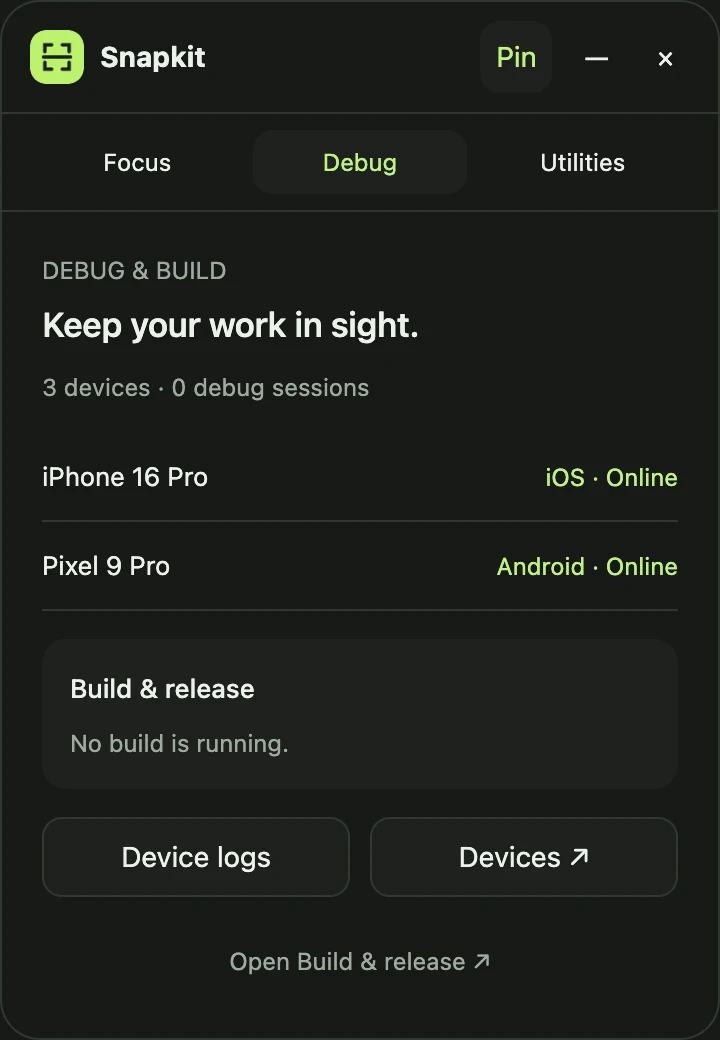
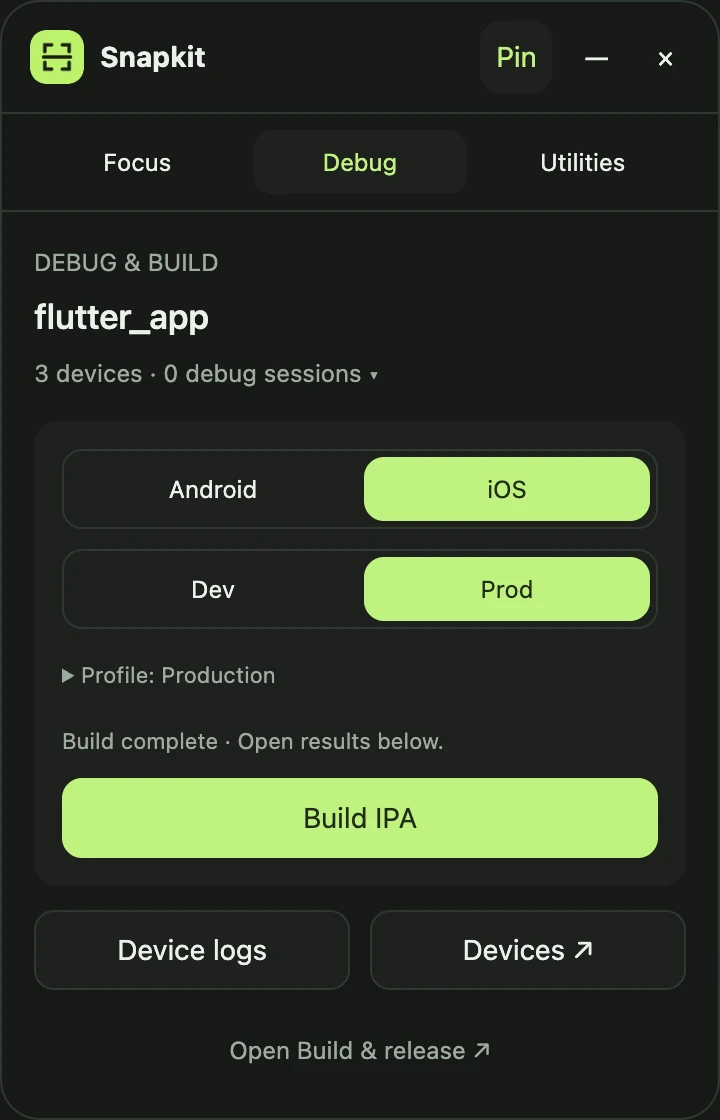
feat: build Android and iOS profiles from Mini widget

diff --git a/scripts/content/seo-guides.js b/scripts/content/seo-guides.js
@@ -57,7 +57,8 @@ export const guides = [
  ['Tạo mã QR không qua liên kết trung gian',['Mở QR Kit, nhập liên kết hoặc văn bản và bấm Tạo mã QR. Bạn có thể chọn mức phục hồi mã L, M, Q hoặc H; mức cao chịu lỗi tốt hơn nhưng chứa ít dữ liệu hơn.','Lưu ảnh QR dạng PNG rồi quét thử bằng điện thoại trước khi chia sẻ. QR chứa trực tiếp nội dung bạn nhập, không mã hoá và không tự gửi lên server. Thay nội dung sẽ xoá ảnh QR cũ để tránh lưu nhầm.']],
  ['Đổi ảnh đại diện',['Mở Hồ sơ của tôi → Tải ảnh lên để chọn PNG, JPG hoặc WebP tối đa 5 MB. Ảnh được cắt vuông ở giữa và thu nhỏ thành 256 × 256.','Hoặc mở Thư viện avatar, chọn bộ Robot/Chân dung và một ảnh, hay bấm Chọn ngẫu nhiên. Xem trước rồi Lưu hồ sơ; Đặt lại thay đổi bỏ bản nháp và Dùng chữ cái khôi phục avatar chữ cái. Avatar được giữ khi đăng nhập lại; demo chỉ thay đổi trong bản xem thử.']],
  ['Ổ trong máy và SSD gắn ngoài',['Vào Thiết lập & công cụ hoặc Snapkit Kit → Theo dõi máy để xem từng ổ đang kết nối. Mỗi thẻ ghi tên ổ, SSD/HDD khi hệ điều hành cung cấp, kết nối, dung lượng trống và tổng dung lượng. Nhãn chỉ rõ ổ hệ thống, dữ liệu Snapkit và dự án đang mở.','Dung lượng dùng GB thập phân. Trên macOS, số trống là phần hệ thống đang cho phép ghi; Cài đặt macOS có thể tính thêm phần có thể thu hồi. Các volume System/Data trong cùng nhóm APFS được gộp, không cộng dung lượng hai lần. Bấm Kiểm tra lại hoặc Cập nhật thông tin máy sau khi cắm/rút ổ.']],
- ['Widget nổi và menu bar',['Trong bản desktop, bấm Mở widget nổi trên Snapkit Kit hoặc Focus Kit. Chuyển Tập trung, Debug hoặc Tiện ích bằng thanh chế độ phía trên. Chế độ cuối được nhớ trên máy. Đổi chế độ không dừng đồng hồ. Kéo thanh Snapkit để di chuyển; Ghim giữ widget trên cùng, dấu trừ thu gọn và dấu × đóng riêng widget. Đồng hồ đồng bộ với Focus Kit kể cả khi cửa sổ chính bị ẩn.','Trong My day, bấm nút ghim cạnh task để đưa task thật và tiến độ tiêu chí lên widget. Mở task quay lại đúng công việc trong Teams. Tiến độ được kiểm tra lại khi widget mở và có kết nối; widget không tự đánh dấu tiêu chí thay bạn.','Trong Debug, xem thiết bị online, phiên Debug Sync và trạng thái build thật. Nếu công cụ build không cung cấp phần trăm, Snapkit hiển thị giai đoạn xử lý. Log thiết bị, Thiết bị và Build & release mở màn tương ứng trong ứng dụng. Trong Tiện ích, Copy dùng mục mới nhất trong lịch sử đã bật; Chụp ảnh và Tạo QR mở công cụ đầy đủ. Giữ máy thức dùng chung trạng thái với ứng dụng.',
+ ['Widget nổi và menu bar',['Trong bản desktop, bấm Mở widget nổi trên Snapkit Kit hoặc Focus Kit. Chuyển Tập trung, Debug hoặc Tiện ích bằng thanh chế độ phía trên. Chế độ cuối được nhớ trên máy. Đổi chế độ không dừng đồng hồ. Kéo thanh Snapkit để di chuyển; Ghim giữ widget trên cùng, dấu trừ thu gọn và dấu × đóng riêng widget. Đồng hồ đồng bộ với Focus Kit kể cả khi cửa sổ chính bị ẩn.','Trong My day, bấm nút ghim cạnh task để đưa task thật và tiến độ tiêu chí lên widget. Mở task quay lại đúng công việc trong Teams. Tiến độ được kiểm tra lại khi widget mở và có kết nối; widget không tự đánh dấu tiêu chí thay bạn.','Build trực tiếp trong Debug: chọn Android hoặc iOS, chọn Dev hoặc Prod, kiểm tra tên Profile rồi bấm Build APK/IPA. Dev/Prod là môi trường từ profile dự án, không phải chế độ debug của Flutter. Widget dùng đúng flavor, entrypoint và file defines của profile. Nếu chưa có profile rõ ràng hoặc có nhiều profile trùng môi trường, bấm dòng Profile để chọn. Lựa chọn được nhớ riêng theo dự án, nền tảng và môi trường. iOS cần macOS, Xcode và cấu hình signing; widget không tự upload lên TestFlight. Khi đang build, bạn có thể bấm Huỷ. Mở Build & release để xem artifact, log lỗi và cấu hình nâng cao.',
+ 'Trong Debug, xem thiết bị online, phiên Debug Sync và trạng thái build thật. Nếu công cụ build không cung cấp phần trăm, Snapkit hiển thị giai đoạn xử lý. Log thiết bị, Thiết bị và Build & release mở màn tương ứng trong ứng dụng. Trong Tiện ích, Copy dùng mục mới nhất trong lịch sử đã bật; Chụp ảnh và Tạo QR mở công cụ đầy đủ. Giữ máy thức dùng chung trạng thái với ứng dụng.',
  'Biểu tượng Snapkit nằm trên menu bar của macOS hoặc system tray của Windows. Đóng cửa sổ chính chỉ ẩn ứng dụng; mở lại từ biểu tượng hoặc Dock. Chọn Thoát Snapkit để dừng ứng dụng hoàn toàn. Giữ máy thức và clipboard theo phiên chỉ kết thúc khi tắt chức năng hoặc thoát hẳn.','Sau lần đăng nhập đầu tiên, desktop yêu cầu thông báo qua hệ điều hành. Trên web, bấm Cho phép thông báo trong lời nhắc. Không hỏi lại nếu bạn đã tắt hoặc chọn Để sau; có thể bật lại trong bảng thông báo.']],
  ['Những công cụ còn lại',['Image Kit đổi kích thước và định dạng PNG, JPEG, WebP. Text Kit xử lý JSON, Base64, URL và văn bản. File Check đối chiếu SHA-256 của tệp tải về. Focus Kit hẹn giờ tập trung; desktop có thông báo hệ điều hành nếu được cấp quyền.','Muốn mở cùng máy hoặc giữ máy thức, dùng Luôn sẵn khi bạn cần ở cuối trang. Khởi động cùng máy chỉ có trong bản cài đặt macOS/Windows; Giữ máy luôn thức kết thúc khi tắt chức năng hoặc thoát hẳn ứng dụng. Dữ liệu của các tiện ích này không được tự chia sẻ vào Teams.']]]},en:{title:'Snapkit everyday utility kit',description:'Use session clipboard history, batch rename, screen annotation, QR generation and local tools on macOS and Windows.',intro:'No development project required. Open Personal → Snapkit Kit → Everyday tools and choose what you need.',sections:[
  ['Open your everyday tools',['After signing in, choose Use everyday tools during onboarding or open Snapkit Kit in the Personal sidebar. These tools do not require a connected project, Flutter SDK or virtual device.','Use ⌘/Ctrl + K to search tools inside Snapkit. The global ⌘/Ctrl + Shift + Space shortcut brings up Snapkit and its command palette while the app is running, if the OS allows registration.']],
@@ -66,7 +67,8 @@ export const guides = [
  ['Capture, annotate and redact an image',['In Snap Capture, choose a desktop screen or open a PNG, JPEG or WebP image. macOS may require Screen Recording permission in System Settings and an app restart. Screen previews are captured at up to 1920 × 1080.','Choose Mark rectangle, Draw arrow or Cover private text, then drag on the image. Redaction writes an opaque black area into the exported PNG pixels. Check coverage before sharing.','Undo an annotation to correct it, then Save annotated image. The original is not overwritten. Discard image clears it from the tool. The browser demo annotates selected or sample images; it does not capture desktop screens.']],
  ['Generate a direct QR code',['Open QR Kit, enter a link or text and generate the code. Choose error correction L, M, Q or H; higher correction tolerates more damage but fits less data.','Save the PNG and test it with your phone before sharing. The code contains your original content without encryption or a tracking redirect. It is generated locally. Editing the content clears the old output to prevent saving a stale code.']],
  ['Internal and external storage',['Open Setup & tools or Snapkit Kit → Machine Watch to see connected storage. Each card identifies the volume, SSD/HDD when reported by the OS, connection, available and total space. Badges show the system disk, Snapkit data and active project.','Capacity uses decimal GB. macOS may include reclaimable space in its own storage estimates; Snapkit shows currently writable space. System/Data volumes in an APFS group are shown once. Refresh after connecting or disconnecting a drive.']],
- ['Floating widget and menu bar',['In the desktop app, choose Open floating widget in Snapkit Kit or Focus Kit. Choose Focus, Debug or Utilities in the mode bar. The last mode is remembered on this computer; switching does not pause your timer. Drag its Snapkit header to move it, Pin keeps it on top, minus collapses it and × closes just the widget. Its timer stays in sync with Focus Kit when the main window is hidden.','In My day, use the pin button beside a task to show its real title and acceptance progress. Open task returns to that work in Teams. Progress refreshes while the widget is open and connected; criteria are edited in the full app.','Debug shows online devices, Debug Sync sessions and the actual build stage, without inventing a completion percentage. Device logs, Devices and Build & release open the corresponding app pages. Utilities copies the newest captured history item; Capture and Create QR open their full tools. Keep Awake shares the same setting as the full app.',
+ ['Floating widget and menu bar',['In the desktop app, choose Open floating widget in Snapkit Kit or Focus Kit. Choose Focus, Debug or Utilities in the mode bar. The last mode is remembered on this computer; switching does not pause your timer. Drag its Snapkit header to move it, Pin keeps it on top, minus collapses it and × closes just the widget. Its timer stays in sync with Focus Kit when the main window is hidden.','In My day, use the pin button beside a task to show its real title and acceptance progress. Open task returns to that work in Teams. Progress refreshes while the widget is open and connected; criteria are edited in the full app.','Build directly in Debug: choose Android or iOS, select Dev or Prod, review the Profile name, then press Build APK/IPA. Dev/Prod are project profile environments, not Flutter debug build modes. The widget uses that profile’s actual flavor, entrypoint and defines file. If an environment is missing or ambiguous, choose a profile from the Profile row. Choices are remembered per project, platform and environment. iOS requires macOS, Xcode and signing setup; the widget does not upload to TestFlight. Cancel stops the active build. Open Build & release for artifacts, failure logs and advanced configuration.',
+ 'Debug shows online devices, Debug Sync sessions and the actual build stage, without inventing a completion percentage. Device logs, Devices and Build & release open the corresponding app pages. Utilities copies the newest captured history item; Capture and Create QR open their full tools. Keep Awake shares the same setting as the full app.',
  'Snapkit appears in the macOS menu bar or Windows system tray. Closing the main window hides it; reopen from the icon or Dock. Choose Quit Snapkit to stop the app. Keep Awake and session clipboard continue until disabled or you quit entirely.','After your first signed-in launch, desktop requests OS notifications. On the web, click Allow notifications in the startup invitation. Existing opt-outs and Not now are respected; enable later in the notification panel.']],
  ['Change your avatar',['Open My profile → Upload photo to choose a PNG, JPG or WebP up to 5 MB. Snapkit center-crops it to a square and resizes it to 256 × 256 before saving.','Or open Avatar library, choose Robots or Portraits, then select an avatar or choose Surprise me. Preview it and Save profile. Reset changes discards your draft; Use initials restores your initials. Saved avatars survive sign-in. The web demo changes only the current preview.']],
  ['Use the rest of your kit',['Image Kit resizes and converts PNG, JPEG and WebP. Text Kit handles JSON, Base64, URLs and text cleanup. File Check compares SHA-256 checksums. Focus Kit runs a focus timer; desktop can notify through the OS when permission allows.','Use Always within reach for launch at login and Keep Awake. Launch at login requires the installed macOS or Windows app. Keep Awake ends when disabled or when you quit. Everyday utility data is not automatically shared into Teams.']]]}}

diff --git a/apps/desktop/src/mini/mini.js b/apps/desktop/src/mini/mini.js
@@ -14,16 +14,30 @@ function render(value){
  if(mode==='utility'){
   const u=state.utility;$('utility-title').textContent=vi?'Việc nhỏ, xử lý tại chỗ.':'Small tasks, handled here.';$('clipboard-title').textContent=vi?'Clipboard gần đây':'Recent clipboard';$('clipboard-count').textContent=u.enabled?(vi?'Đã bật trong phiên':'Enabled this session'):(vi?'Đang tắt':'Off');const clipboardText=u.item?.text||(u.error?(vi?'Clipboard đã tạm dừng.':'Clipboard capture paused.'):u.enabled?(vi?'Chưa có văn bản mới.':'No new text yet.'):(vi?'Bật trong Clipboard Kit để lưu văn bản.':'Enable Clipboard Kit to capture text.'));if($('clipboard-text').textContent!==clipboardText)$('clipboard-text').textContent=clipboardText;$('copy').disabled=!u.item||busy;$('clipboard').textContent=vi?'Mở Clipboard Kit ↗':'Open Clipboard Kit ↗';$('capture').textContent=vi?'Chụp ảnh':'Capture';$('qr').textContent=vi?'Tạo QR':'Create QR';$('awake').textContent=(vi?'Giữ máy thức · ':'Keep Awake · ')+(u.awake?(vi?'Bật':'On'):(vi?'Tắt':'Off'));$('awake').setAttribute('aria-pressed',String(u.awake));$('privacy').textContent=vi?'Lịch sử ở trên máy. Chỉ lưu khi bạn bật.':'History stays on this computer. Capture is opt in.';$('mini-title').textContent='Daily Kit';$('mini-time').textContent=u.enabled?u.count+(vi?' mục':' items'):(vi?'Clipboard tắt':'Clipboard off');
  }else if(mode==='debug'){
-  const d=state.debug;$('debug-title').textContent=vi?'Không cần đổi cửa sổ.':'Keep your work in sight.';$('debug-count').textContent=!d?(vi?'Đang cập nhật…':'Updating…'):d.unavailable?(vi?'Mở Snapkit để kết nối lại.':'Open Snapkit to reconnect.'):(d.deviceCount+(vi?' thiết bị · ':' devices · ')+d.sessions+(vi?' phiên debug':' debug sessions'));
+  const d=state.debug;$('debug-title').textContent=vi?'Không cần đổi cửa sổ.':'Keep your work in sight.';$('debug-count').textContent=!d?(vi?'Đang cập nhật…':'Updating…'):d.unavailable?(vi?'Mở Snapkit để kết nối lại.':'Open Snapkit to reconnect.'):(d.deviceCount+(vi?' thiết bị · ':' devices · ')+d.sessions+(vi?' phiên debug':' debug sessions')+' ▾');
   const rows=[];for(const device of d?.devices||[]){const row=document.createElement('div');row.className='device';const name=document.createElement('span');name.textContent=device.name;const status=document.createElement('small');status.textContent=device.debugging?'Debug Sync':device.platform+' · Online';row.append(name,status);rows.push(row);}$('debug-devices').replaceChildren(...rows);
-  $('build-title').textContent=d?.build?d.build.format:(vi?'Build & phát hành':'Build & release');$('build-status').textContent=!d?(vi?'Đang cập nhật…':'Updating…'):d.releaseUnavailable?(vi?'Chưa lấy được trạng thái build.':'Build status unavailable.'):d.build?(d.build.upload?(vi?'Đang upload':'Uploading'):({preparing:vi?'Đang chuẩn bị':'Preparing',building:vi?'Đang build ứng dụng':'Building app',collecting:vi?'Đang thu thập kết quả':'Collecting artifacts'})[d.build.status]||(vi?'Đang xử lý':'Running')):(vi?'Chưa có build đang chạy.':'No build is running.');$('logs').textContent=vi?'Log thiết bị':'Device logs';$('devices').textContent=vi?'Thiết bị ↗':'Devices ↗';$('releases').textContent=vi?'Mở Build & release ↗':'Open Build & release ↗';$('mini-title').textContent='Debug & build';$('mini-time').textContent=d&&!d.unavailable?d.sessions+(vi?' phiên':' sessions'):'—';
+  const q=state.quickBuild;$('debug-title').textContent=q?.project||(vi?'Build nhanh':'Quick build');
+  $('build-title').textContent=vi?'BUILD NHANH':'QUICK BUILD';
+  $('build-platforms').setAttribute('aria-label',vi?'Nền tảng':'Platform');$('build-environments').setAttribute('aria-label',vi?'Môi trường':'Environment');
+  for(const name of ['android','ios','dev','prod']){const button=$('build-'+name);button.setAttribute('aria-pressed',String(q?.platform===name||q?.environment===name));button.disabled=busy||!!q?.busy||(name==='ios'?!q?.ios:name==='android'?!q?.android:false);}
+  const picker=$('build-profile-picker'),label=$('build-profile-label');label.textContent=(vi?'Profile: ':'Profile: ')+(q?.profile||(vi?'Chọn cấu hình':'Choose profile'));picker.hidden=!q?.profiles?.length;
+  const signature=JSON.stringify([q?.profiles,q?.profileId,busy,q?.busy]);if($('build-profiles').dataset.signature!==signature){$('build-profiles').dataset.signature=signature;const options=(q?.profiles||[]).map(profile=>{const button=document.createElement('button');button.textContent=profile.name;button.setAttribute('aria-pressed',String(profile.id===q.profileId));button.disabled=busy||q.busy;button.addEventListener('click',()=>{picker.open=false;void action('build:profile:'+profile.id);});return button;});$('build-profiles').replaceChildren(...options);}
+  const reasons={signin:vi?'Đăng nhập trong Snapkit.':'Sign in to Snapkit.',workspace:vi?'Chọn dự án trong Snapkit.':'Choose a project in Snapkit.',framework:vi?'Build nhanh hiện hỗ trợ Flutter.':'Quick build supports Flutter.',loading:vi?'Đang tải cấu hình…':'Loading profiles…',catalog:vi?'Mở Build & release để kiểm tra cấu hình.':'Open Build & release to review configuration.',platform:q?.platform==='ios'?(vi?'iOS cần macOS và dự án iOS.':'iOS requires macOS and an iOS project.'):(vi?'Dự án chưa có Android.':'This project has no Android platform.'),profile:vi?'Chọn profile cho môi trường này.':'Choose a profile for this environment.',busy:vi?'Một tác vụ build đang chạy.':'A build task is running.'};
+  const stages={starting:vi?'Đang bắt đầu…':'Starting…',preparing:vi?'Đang chuẩn bị…':'Preparing…',building:vi?'Đang build…':'Building…',collecting:vi?'Đang lưu kết quả…':'Saving artifacts…',succeeded:vi?'Build xong · Xem kết quả bên dưới.':'Build complete · Open results below.',failed:vi?'Build thất bại · Mở chi tiết bên dưới.':'Build failed · Open details below.',cancelled:vi?'Đã huỷ build.':'Build cancelled.',interrupted:vi?'Build bị gián đoạn.':'Build interrupted.'};
+  $('build-status').textContent=q?.reason&&!q.busy?reasons[q.reason]||'':d?.build?.upload?(vi?'Đang upload…':'Uploading…'):(q?.busy?[stages[q?.status]||reasons.busy,q?.activeFormat,q?.activeFlavor].filter(Boolean).join(' · '):stages[q?.status])||(q?.busy?reasons.busy:vi?'Sẵn sàng · APK / IPA':'Ready · APK / IPA');
+  $('build-start').textContent=q?.busy?(vi?'Đang build…':'Building…'):'Build '+(q?.platform==='ios'?'IPA':'APK');$('build-start').disabled=busy||!q?.canBuild;$('build-cancel').hidden=!q?.canCancel;$('build-cancel').disabled=busy;$('build-cancel').textContent=vi?'Huỷ':'Cancel';
+  $('logs').textContent=vi?'Log thiết bị':'Device logs';$('devices').textContent=vi?'Thiết bị ↗':'Devices ↗';$('releases').textContent=vi?'Mở Build & release ↗':'Open Build & release ↗';$('mini-title').textContent='Debug & build';$('mini-time').textContent=d&&!d.unavailable?d.sessions+(vi?' phiên':' sessions'):'—';
  }else $('mini-title').textContent=task?.title||'Focus Kit';
  clock();fit();
 }
-async function action(name){if(busy)return;busy=true;try{$('error').hidden=true;const next=await window.snapkitMini.action(name);if(next)render(next);if(name==='copy'){$('feedback').textContent=state?.language==='vi'?'Đã sao chép':'Copied';$('feedback').hidden=false;clearTimeout(feedbackTimer);feedbackTimer=setTimeout(()=>$('feedback').hidden=true,1800);}}catch{$('error').textContent=state?.language==='vi'?'Chưa thực hiện được. Thử lại nhé.':'Could not complete. Try again.';$('error').hidden=false;}finally{busy=false;if(state)render(state);}}
+async function action(name){if(busy)return;busy=true;try{$('error').hidden=true;const next=await window.snapkitMini.action(name);if(next)render(next);if(name==='copy'||name==='build:start'){$('feedback').textContent=name==='build:start'?(state?.language==='vi'?'Đã bắt đầu build':'Build started'):(state?.language==='vi'?'Đã sao chép':'Copied');$('feedback').hidden=false;clearTimeout(feedbackTimer);feedbackTimer=setTimeout(()=>$('feedback').hidden=true,1800);}}catch{$('error').textContent=name.startsWith('build:')?(state?.language==='vi'?'Chưa build được. Mở Build & release để kiểm tra.':'Could not build. Open Build & release to review.'):(state?.language==='vi'?'Chưa thực hiện được. Thử lại nhé.':'Could not complete. Try again.');$('error').hidden=false;}finally{busy=false;if(state)render(state);}}
 for(const id of ['pin','compact','close','focus','open','clear','awake','copy','clipboard','capture','qr','logs','devices','releases'])$(id).addEventListener('click',()=>void action(id));$('expand').addEventListener('click',()=>void action('compact'));
 for(const button of document.querySelectorAll('[data-mode]'))button.addEventListener('click',()=>void action('mode:'+button.dataset.mode));
 $('modes').addEventListener('keydown',event=>{if(!['ArrowLeft','ArrowRight','Home','End'].includes(event.key))return;event.preventDefault();const buttons=[...document.querySelectorAll('[data-mode]')],index=buttons.indexOf(document.activeElement);const next=event.key==='Home'?0:event.key==='End'?buttons.length-1:(index+(event.key==='ArrowRight'?1:-1)+buttons.length)%buttons.length;buttons[next].focus();void action('mode:'+buttons[next].dataset.mode);});
 window.snapkitMini.onState(render);window.snapkitMini.state().then(render).catch(()=>{$('error').textContent='Snapkit Mini unavailable';$('error').hidden=false;});setInterval(clock,1000);
 
 const sizeObserver=new ResizeObserver(fit);for(const panel of document.querySelectorAll('main,header,nav'))sizeObserver.observe(panel);document.fonts.ready.then(fit);
+
+for(const name of ['android','ios','dev','prod','start','cancel'])$('build-'+name).addEventListener('click',()=>void action('build:'+name));
+
+$('debug-count').addEventListener('click',()=>{const list=$('debug-devices');list.hidden=!list.hidden;$('debug-count').setAttribute('aria-expanded',String(!list.hidden));fit();});

diff --git a/apps/desktop/src/mini/mini.css b/apps/desktop/src/mini/mini.css
@@ -1,2 +1,6 @@
 :root{color-scheme:light;--surface:#fff;--inner:#f2f5ef;--text:#202820;--muted:#59665b;--line:#dce3d9;--accent:#e0efcf;--ink:#23321a;--green:#326436;font:14px/1.5 system-ui,-apple-system,'Segoe UI',sans-serif;color:var(--text);background:transparent}:root.dark{color-scheme:dark;--surface:#171a18;--inner:#202522;--text:#edf3ed;--muted:#a6b5a9;--line:#344037;--accent:#c0f58b;--green:#c0f58b}*{box-sizing:border-box}body{margin:0;background:var(--surface);border-radius:20px;overflow:hidden;border:1px solid var(--line);min-height:100vh}header{height:56px;display:flex;align-items:center;gap:8px;padding:10px 14px;border-bottom:1px solid var(--line);-webkit-app-region:drag}header img{width:27px;height:27px;border-radius:8px}header strong{flex:1}button{-webkit-app-region:no-drag;font:inherit;border:1px solid var(--line);border-radius:10px;padding:8px 12px;min-height:36px;color:var(--text);background:var(--inner);cursor:pointer}button:hover{filter:brightness(.95)}button:focus-visible{outline:2px solid var(--green);outline-offset:2px}button:disabled{opacity:.5;cursor:wait}header button,#expand{border:0;background:transparent;padding:6px 8px}#pin[aria-pressed=true]{color:var(--green);background:var(--inner)}main{padding:20px;display:grid;gap:18px}h1{font-size:17px;font-weight:550;line-height:1.45;margin:6px 0 10px;overflow-wrap:anywhere;display:-webkit-box;-webkit-line-clamp:2;-webkit-box-orient:vertical;overflow:hidden}.eyebrow,.muted,.criteria,p{font-size:12px;color:var(--muted)}.eyebrow{white-space:nowrap;overflow:hidden;text-overflow:ellipsis}p{margin:8px 0}.track{height:4px;border-radius:10px;background:var(--inner);overflow:hidden;margin-top:10px}.track span{display:block;height:100%;background:var(--green)}.criteria{display:flex;justify-content:space-between}.focus{padding:16px;background:var(--inner);border-radius:14px;display:flex;align-items:center;justify-content:space-between;gap:12px}#timer{font-size:40px;line-height:1.2;letter-spacing:-1.5px;font-variant-numeric:tabular-nums}.primary{background:var(--accent);color:var(--ink);border-color:transparent}.open{width:100%;min-height:40px}.text{border:0;background:none;color:var(--muted);font-size:12px;padding:6px 0}#mini-bar{height:70px;display:flex;align-items:center;gap:12px;padding:14px;-webkit-app-region:drag}#mini-title{flex:1;overflow:hidden;text-overflow:ellipsis;white-space:nowrap}#mini-time{font-variant-numeric:tabular-nums}#error{padding:4px 20px;color:var(--text);font-size:12px}[hidden]{display:none!important}body.compact header,body.compact main{display:none}body.compact #mini-bar{display:flex}
 body{height:100vh;position:relative;min-height:0}nav{display:flex;gap:4px;padding:8px 14px;border-bottom:1px solid var(--line)}nav button{flex:1;background:transparent;border:0;font-size:12px;min-height:32px;padding:6px}nav button[aria-selected=true]{background:var(--inner);color:var(--green)}body.compact nav,body.compact main{display:none}main{gap:14px;max-height:calc(100vh - 106px);overflow-y:auto}#mini-bar strong{font-size:12px;white-space:nowrap}.clipboard-heading{display:flex;align-items:center;justify-content:space-between;gap:10px}.clipboard{background:var(--inner);border-radius:12px;padding:14px;display:flex;align-items:center;gap:12px;min-height:68px}.clipboard code{font:12px/1.6 ui-monospace,monospace;overflow-wrap:anywhere;flex:1;min-width:0;display:-webkit-box;-webkit-line-clamp:2;-webkit-box-orient:vertical;overflow:hidden}.clipboard button{flex:none}.tool-actions{display:flex;gap:10px}.tool-actions button{flex:1;min-height:40px}#awake{min-height:42px}#awake[aria-pressed=true]{color:var(--green);background:var(--inner)}#privacy{margin:0;font-size:12px}#utility-panel>.text{justify-self:start;margin-top:-10px;padding:0}.device{display:flex;justify-content:space-between;align-items:center;gap:12px;padding:12px 0;border-bottom:1px solid var(--line);font-size:13px}.device>span{min-width:0;overflow:hidden;text-overflow:ellipsis;white-space:nowrap}.device small{font-size:12px;color:var(--green);white-space:nowrap}.build{background:var(--inner);padding:14px;border-radius:12px}.build strong{font-size:13px;font-weight:500}.build p{margin-bottom:0}#debug-count{margin-bottom:0}#feedback,#error{position:absolute;inset:auto 12px 12px;padding:10px 14px;border:1px solid var(--line);border-radius:12px;background:var(--inner);font-size:12px;box-shadow:0 6px 18px #0003}#feedback{color:var(--green)}
+
+.quick-build{display:grid;gap:10px}.quick-build>strong{font-size:10px;letter-spacing:1px;color:var(--muted)}.build-segments{display:flex;gap:4px;border:1px solid var(--line);padding:3px;border-radius:10px}.build-segments button{flex:1;border:0;background:transparent;font-size:12px;min-height:32px;padding:5px 8px}.build-segments button[aria-pressed=true]{background:var(--accent);color:var(--ink)}.build-segments button:disabled{cursor:default}.build-actions{display:flex;gap:8px}.build-actions button{min-height:40px}.build-actions .primary{flex:1}.quick-build #build-status{margin:0;font-size:11px;line-height:1.5}.quick-build details{min-width:0}.quick-build summary{font-size:11px;color:var(--muted);cursor:pointer;white-space:nowrap;text-overflow:ellipsis;overflow:hidden;min-height:28px;padding:5px 0}.quick-build summary:focus-visible{outline:2px solid var(--green);outline-offset:2px}#build-profiles{display:grid;gap:6px;padding:6px 0;max-height:136px;overflow-y:auto}#build-profiles button{font-size:11px;text-align:left;overflow-wrap:anywhere}#build-profiles button[aria-pressed=true]{border-color:var(--green);color:var(--green)}
+
+#debug-panel{gap:12px;padding:16px}#debug-panel #build-title{display:none}#debug-count{margin:0;padding:0;text-align:left;min-height:24px;font-size:12px}#debug-panel h1{margin-bottom:4px}

diff --git a/apps/desktop/src/mini/mini.html b/apps/desktop/src/mini/mini.html
@@ -2,6 +2,6 @@
 <header><img src="../../assets/icon.png" alt=""><strong>Snapkit</strong><button id="pin" aria-pressed="true">Ghim</button><button id="compact" aria-label="Thu gọn">—</button><button id="close" aria-label="Đóng widget">×</button></header>
 <nav id="modes" role="tablist" aria-label="Widget mode"><button id="tab-focus" role="tab" aria-controls="focus-panel" aria-selected="true" data-mode="focus">Tập trung</button><button id="tab-debug" role="tab" aria-controls="debug-panel" aria-selected="false" data-mode="debug">Debug</button><button id="tab-utility" role="tab" aria-controls="utility-panel" aria-selected="false" data-mode="utility">Tiện ích</button></nav>
 <main id="focus-panel" role="tabpanel" aria-labelledby="tab-focus"><section id="task" hidden><div class="eyebrow" id="project"></div><h1 id="title"></h1><div class="criteria" id="criteria"></div><div class="track" id="track"><span id="progress"></span></div><button class="text" id="clear">Bỏ ghim task</button></section><section id="empty"><div class="eyebrow">FOCUS KIT</div><h1 id="empty-title">Một việc tại một thời điểm.</h1><p id="hint">Ghim task từ My day để theo dõi tại đây.</p></section><div class="focus"><div><div class="muted" id="status">Sẵn sàng tập trung</div><div id="timer" role="timer">25:00</div></div><button id="focus" class="primary">Bắt đầu</button></div><button class="open" id="open">Mở Snapkit ↗</button></main>
-<main id="debug-panel" role="tabpanel" aria-labelledby="tab-debug" hidden><section><div class="eyebrow">DEBUG & BUILD</div><h1 id="debug-title">Không cần đổi cửa sổ.</h1><p id="debug-count"></p></section><div id="debug-devices"></div><div class="build"><strong id="build-title"></strong><p id="build-status"></p></div><div class="tool-actions"><button id="logs">Xem log</button><button id="devices">Thiết bị ↗</button></div><button class="text" id="releases">Mở Build & release ↗</button></main>
+<main id="debug-panel" role="tabpanel" aria-labelledby="tab-debug" hidden><section><div class="eyebrow">DEBUG & BUILD</div><h1 id="debug-title">Không cần đổi cửa sổ.</h1><button class="text" id="debug-count" aria-expanded="false" aria-controls="debug-devices"></button></section><div id="debug-devices" hidden></div><div class="build quick-build"><strong id="build-title">Build nhanh</strong><div class="build-segments" id="build-platforms" role="group" aria-label="Nền tảng"><button id="build-android" aria-pressed="true">Android</button><button id="build-ios" aria-pressed="false">iOS</button></div><div class="build-segments" id="build-environments" role="group" aria-label="Môi trường"><button id="build-dev" aria-pressed="true">Dev</button><button id="build-prod" aria-pressed="false">Prod</button></div><details id="build-profile-picker"><summary id="build-profile-label"></summary><div id="build-profiles" role="group" aria-label="Build profile"></div></details><p id="build-status" role="status"></p><div class="build-actions"><button class="primary" id="build-start">Build APK</button><button id="build-cancel" hidden>Huỷ</button></div></div><div class="tool-actions"><button id="logs">Xem log</button><button id="devices">Thiết bị ↗</button></div><button class="text" id="releases">Mở Build & release ↗</button></main>
 <main id="utility-panel" role="tabpanel" aria-labelledby="tab-utility" hidden><section><div class="eyebrow">DAILY KIT</div><h1 id="utility-title">Việc nhỏ, xử lý tại chỗ.</h1></section><div class="clipboard-heading"><span id="clipboard-title">Clipboard gần đây</span><span class="muted" id="clipboard-count"></span></div><div class="clipboard"><code id="clipboard-text"></code><button id="copy">Copy</button></div><button class="text" id="clipboard">Mở Clipboard Kit ↗</button><div class="tool-actions"><button id="capture">Chụp ảnh</button><button id="qr">Tạo QR</button></div><button id="awake" aria-pressed="false">Giữ máy thức · Tắt</button><p id="privacy"></p></main>
 <div id="mini-bar" hidden><span id="mini-title">Focus Kit</span><strong id="mini-time">25:00</strong><button id="expand" aria-label="Mở rộng">↗</button></div><div id="feedback" role="status" hidden></div><div id="error" role="alert" hidden></div><script src="mini.js"></script></body></html>

diff --git a/tests/unit/mini-build.test.js b/tests/unit/mini-build.test.js
@@ -1,0 +1,9 @@
+import test from 'node:test';import assert from 'node:assert/strict';import {createRequire} from 'node:module';
+const {key,profileId,profileFor,buildView}=createRequire(import.meta.url)('../../apps/desktop/src/mini/build.cjs');
+const dev={name:'Development',flavor:'dev',target:'lib/main_dev.dart',defineFile:'config/dev.json'},prod={name:'Production',flavor:'prod',target:'lib/main_prod.dart',defineFile:'config/prod.json'};
+const catalog={platform:'darwin',android:true,ios:true,androidFlavors:['dev','prod'],iosFlavors:['dev','prod'],profiles:[dev,prod]};
+const state={settings:{workspace:'/private/project',spaceName:'Commerce',framework:'flutter'},token:'secret-token'},idle={jobs:[],busy:false},selection={platform:'android',environment:'dev'};
+test('Mini resolves real Dev/Prod profiles and never guesses an unconfigured or ambiguous environment',()=>{assert.deepEqual(profileFor(catalog,'android','dev'),dev);assert.deepEqual(profileFor(catalog,'ios','prod'),prod);assert.equal(profileFor({...catalog,profiles:[{...dev,review:true}]},'android','dev'),null);assert.equal(profileFor({...catalog,profiles:[dev,{...dev,target:'lib/other.dart'}]},'android','dev'),null);assert.equal(profileFor({...catalog,profiles:[{name:'Workspace settings',flavor:'',target:'lib/main.dart'}]},'android','dev'),null);assert.equal(profileFor(catalog,'android','dev','stale-id'),null);});
+test('explicit profile mapping is scoped to project and platform, and preserves actual build inputs',()=>{const id=profileId(prod),mapping={[key('/private/project')]:{'android:dev':id}};assert.equal(buildView(state,catalog,idle,selection,mapping).profileId,id);assert.equal(buildView({...state,settings:{...state.settings,workspace:'/another/project'}},catalog,idle,selection,mapping).profileId,profileId(dev));assert.notEqual(profileId(dev),profileId({...dev,defineFile:'config/other.json'}));});
+test('Mini disables unsupported, unauthenticated, unavailable and busy builds without leaking private data',()=>{const view=buildView(state,catalog,idle,selection,{});assert.equal(view.canBuild,true);assert.equal(buildView(state,{...catalog,platform:'win32'},idle,{...selection,platform:'ios'},{}).canBuild,false);assert.equal(buildView({...state,authRequired:true},catalog,idle,selection,{}).reason,'signin');assert.equal(buildView({...state,settings:{...state.settings,framework:'react-native'}},catalog,idle,selection,{}).reason,'framework');assert.equal(buildView(state,catalog,null,selection,{}).canBuild,false);assert.equal(buildView(state,catalog,{jobs:[],busy:true},selection,{}).canBuild,false);assert.equal(buildView(state,catalog,idle,selection,{},true).status,'starting');const json=JSON.stringify(view);for(const secret of ['secret-token','/private','lib/main','config/dev'])assert.equal(json.includes(secret),false);});
+test('Mini permits cancellation only for active builds in the current workspace',()=>{const job={id:'build',status:'building'};assert.equal(buildView(state,catalog,{busy:true,active:{id:'build',workspace:'/private/project'},jobs:[job]},selection,{}).canCancel,true);assert.equal(buildView(state,catalog,{busy:true,active:{id:'build',workspace:'/other/project'},jobs:[job]},selection,{}).canCancel,false);});

diff --git a/apps/website/index.html b/apps/website/index.html
@@ -15,8 +15,8 @@
   <meta name="theme-color" content="#000000">
   <meta name="description" content="Snapkit giúp quản lý Android Emulator, iOS Simulator và debug nhiều thiết bị Flutter, React Native trên macOS và Windows. Tải miễn phí và giữ project trên máy bạn.">
   <title>Snapkit — Debug nhiều thiết bị Flutter, React Native</title>
-  <link rel="icon" href="favicon.svg" type="image/svg+xml"><link rel="stylesheet" href="site.css?v=20261110-showcase"><link rel="stylesheet" href="language.css"><link rel="stylesheet" href="visual.css?v=20261111-kit66">
-  <link rel="stylesheet" href="choices.css?v=20261106-icons"><script src="choices.js?v=20261106-icons" defer></script><script src="locales.js?v=20261111-kit66" defer></script><script src="i18n.js?v=20261106-images46" defer></script><script src="site.js?v=20261111-kit66" defer></script>
+  <link rel="icon" href="favicon.svg" type="image/svg+xml"><link rel="stylesheet" href="site.css?v=20261110-showcase"><link rel="stylesheet" href="language.css"><link rel="stylesheet" href="visual.css?v=20261111-kit67">
+  <link rel="stylesheet" href="choices.css?v=20261106-icons"><script src="choices.js?v=20261106-icons" defer></script><script src="locales.js?v=20261111-kit67" defer></script><script src="i18n.js?v=20261106-images46" defer></script><script src="site.js?v=20261111-kit67" defer></script>
   <script type="application/ld+json">{"@context": "https://schema.org", "@graph": [{"@type": "WebSite", "@id": "https://snapkit.vn/#website", "url": "https://snapkit.vn/", "name": "Snapkit", "inLanguage": ["vi", "en"]}, {"@type": "SoftwareApplication", "@id": "https://snapkit.vn/#app", "name": "Snapkit", "url": "https://snapkit.vn/", "description": "Desktop workspace for Flutter and React Native device management, multi-device debugging, captures and Flutter builds.", "applicationCategory": "DeveloperApplication", "operatingSystem": "macOS 13+, Windows 64-bit", "image": "https://snapkit.vn/assets/devices.png?v=20261106-images46", "offers": {"@type": "Offer", "price": "0", "priceCurrency": "USD", "description": "All current features are free."}, "featureList": ["Android Emulator and iOS Simulator management", "Flutter multi-device debug selection", "React Native Metro and Hermes debugging", "Device logs, screenshots and screen recordings", "Flutter APK, AAB and IPA builds", "Session clipboard history", "Batch filename preview and undo", "Screen annotation and redaction", "Local QR generation"]}]}</script>
 </head>
 <body class="visual-landing">

diff --git a/packages/domain/product-kit.js b/packages/domain/product-kit.js
@@ -1,5 +1,5 @@
-export const kitCatalog={minimumVersion:'0.2.0-beta.63',features:[
- {id:'mini',name:'Snapkit Mini',vi:'Widget Tập trung, Debug, Tiện ích và menu bar / system tray',en:'Focus, Debug and Utilities widget with menu bar / system tray',desktop:'full',browser:'desktop-only',data:'local-timer'},
+export const kitCatalog={minimumVersion:'0.2.0-beta.67',features:[
+ {id:'mini',name:'Snapkit Mini',vi:'Widget Tập trung, build nhanh Android/iOS và Tiện ích',en:'Focus, Android/iOS quick builds and Utilities widget',desktop:'full',browser:'desktop-only',data:'local-timer'},
  {id:'clipboard',name:'Clipboard Kit',vi:'Lịch sử văn bản theo phiên',en:'Session text history',desktop:'opt-in',browser:'manual',data:'session-memory'},
  {id:'rename',name:'File Kit',vi:'Đổi tên hàng loạt, xem trước và hoàn tác',en:'Batch rename with preview and undo',desktop:'full',browser:'preview',data:'local-files'},
  {id:'capture',name:'Snap Capture',vi:'Chụp, đánh dấu và che thông tin trên ảnh',en:'Screen capture, annotation and redaction',desktop:'screen-and-image',browser:'image-only',data:'local-image'},

diff --git a/apps/agent/src/main.js b/apps/agent/src/main.js
@@ -201,7 +201,9 @@ app.get('/api/releases', (_req, res) => res.json(releaseBuilds.list(settings.wor
 app.get('/api/releases/:id', (req, res) => res.json(releaseBuilds.publicJob(releaseBuilds.find(requireWorkspace(), req.params.id), true)));
 app.post('/api/releases/build', async (req, res) => {
   if (req.body.operation === 'run') throw Error('Use the Run Release action to select a physical device.');
-  res.json(await releaseBuilds.start(requireWorkspace(), req.body));
+  const workspace = requireWorkspace();
+  if (req.body.expectedWorkspace !== undefined && req.body.expectedWorkspace !== workspace) return res.status(409).json({error:'Workspace changed. Review the build selection and try again.'});
+  res.json(await releaseBuilds.start(workspace, req.body));
 });
 app.post('/api/releases/run', async (req, res) => {
   if (req.remoteToken) return res.status(403).json({ error: 'Run Release is available in the local app only.' });
